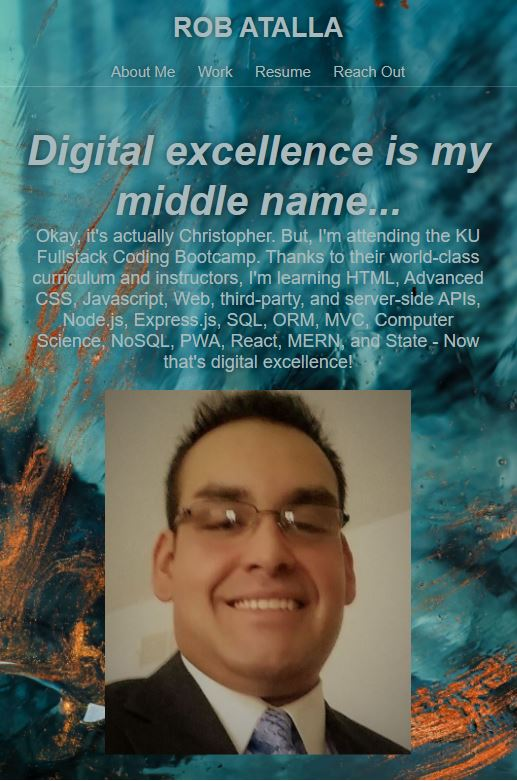
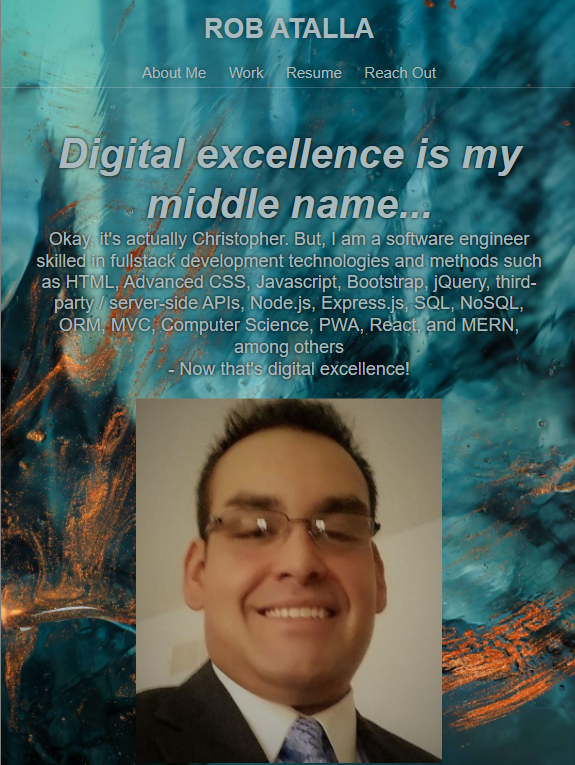
updated my glamour shot

diff --git a/index.html b/index.html
@@ -53,7 +53,7 @@
       </div>
 
       <div id="moi" class="border-rounded">
-      <img src="./assets/images/moi2.png" alt="Rob Atalla looking handsome as usual" />
+      <img src="./assets/images/moi.jpg" alt="Rob Atalla looking handsome as usual" />
      </div>
     </section>
     <!-- end header -->

diff --git a/assets/css/style.css b/assets/css/style.css
@@ -140,6 +140,7 @@
   /* hero styles end */
 
   .moi {
+    border:box;
     border-radius: 25px;
   }
 

diff --git a/README.md b/README.md
@@ -34,7 +34,7 @@ https://ratalla816.github.io/professional-portfolio/
 
 ### Deployed Application Screenshot
 
-![application screenshot](./assets/images/PPpic.JPG)
+![application screenshot](./assets/images/PPpic.PNG)
 
 #### Acknowledgements
 
